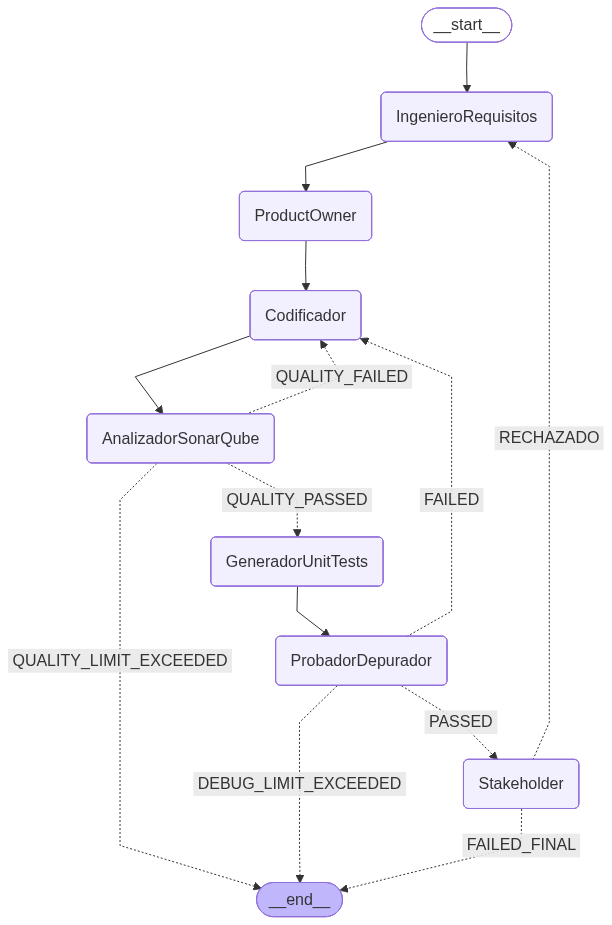
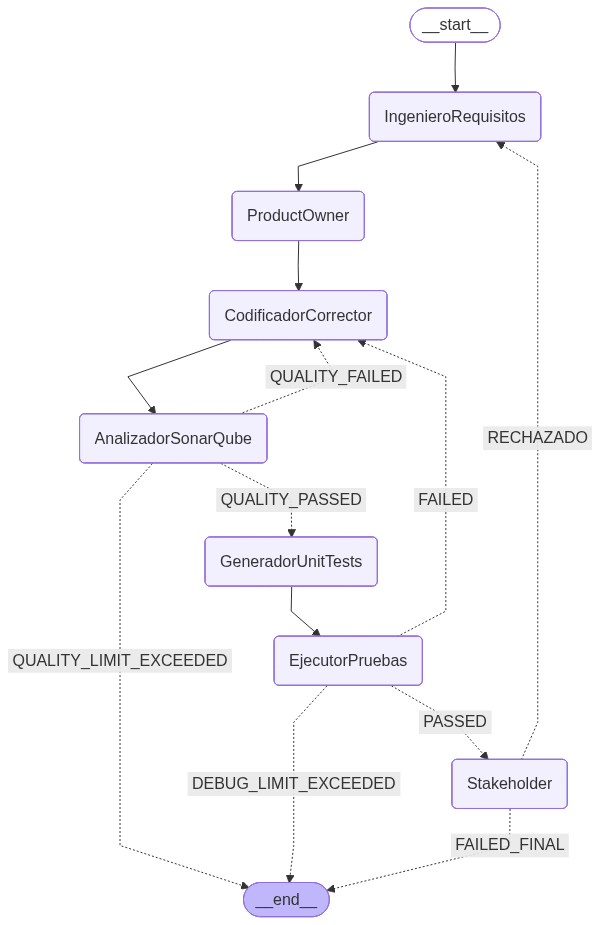
feat: Reestructurar agentes y flujos de trabajo, eliminando codificador y probador, e introduciendo codificador_corrector y ejecutor_pruebas

diff --git a/src/workflow/graph.py b/src/workflow/graph.py
@@ -7,10 +7,10 @@ from langgraph.graph import StateGraph, END, START
 from models.state import AgentState
 from agents.ingeniero_requisitos import ingeniero_de_requisitos_node
 from agents.product_owner import product_owner_node
-from agents.codificador import codificador_node
+from agents.codificador_corrector import codificador_node
 from agents.analizador_sonarqube import analizador_sonarqube_node
 from agents.generador_unit_tests import generador_unit_tests_node
-from agents.probador_depurador import probador_depurador_node
+from agents.ejecutor_pruebas import ejecutor_pruebas_node
 from agents.stakeholder import stakeholder_node
 
 
@@ -26,17 +26,17 @@ def create_workflow() -> StateGraph:
     # 1. Añadir Nodos (Agentes)
     workflow.add_node("IngenieroRequisitos", ingeniero_de_requisitos_node)
     workflow.add_node("ProductOwner", product_owner_node)
-    workflow.add_node("Codificador", codificador_node)
+    workflow.add_node("CodificadorCorrector", codificador_node)
     workflow.add_node("AnalizadorSonarQube", analizador_sonarqube_node)
     workflow.add_node("GeneradorUnitTests", generador_unit_tests_node)
-    workflow.add_node("ProbadorDepurador", probador_depurador_node)
+    workflow.add_node("EjecutorPruebas", ejecutor_pruebas_node)
     workflow.add_node("Stakeholder", stakeholder_node)
 
     # 2. Definir Transiciones Iniciales y Lineales
     workflow.add_edge(START, "IngenieroRequisitos")
     workflow.add_edge("IngenieroRequisitos", "ProductOwner")
-    workflow.add_edge("ProductOwner", "Codificador")
-    workflow.add_edge("Codificador", "AnalizadorSonarQube")
+    workflow.add_edge("ProductOwner", "CodificadorCorrector")
+    workflow.add_edge("CodificadorCorrector", "AnalizadorSonarQube")
 
     # 3. Transiciones Condicionales
 
@@ -50,26 +50,26 @@ def create_workflow() -> StateGraph:
                   else "QUALITY_FAILED")
         ),
         {
-            "QUALITY_FAILED": "Codificador",
+            "QUALITY_FAILED": "CodificadorCorrector",
             "QUALITY_PASSED": "GeneradorUnitTests",
             "QUALITY_LIMIT_EXCEEDED": END
         }
     )
 
-    # B. Transición del Generador de Unit Tests al Probador
-    workflow.add_edge("GeneradorUnitTests", "ProbadorDepurador")
+    # B. Transición del Generador de Unit Tests al Ejecutor de Pruebas
+    workflow.add_edge("GeneradorUnitTests", "EjecutorPruebas")
 
     # C. Bucle de Depuración (Interno: Corrección de Código)
     # Incluye control de límite de intentos
     workflow.add_conditional_edges(
-        "ProbadorDepurador",
+        "EjecutorPruebas",
         lambda x: (
             "PASSED" if x['pruebas_superadas']
             else ("DEBUG_LIMIT_EXCEEDED" if x['debug_attempt_count'] >= x['max_debug_attempts']
                   else "FAILED")
         ),
         {
-            "FAILED": "Codificador",
+            "FAILED": "CodificadorCorrector",
             "PASSED": "Stakeholder",
             "DEBUG_LIMIT_EXCEEDED": END
         }

diff --git a/src/agents/ejecutor_pruebas.py b/src/agents/ejecutor_pruebas.py
@@ -1,6 +1,6 @@
-"""
-Agente 4: Probador/Depurador
-Responsable de generar y ejecutar casos de prueba sobre el código generado.
+"""Agente 4: Ejecutor de Pruebas
+Responsable de generar casos de prueba funcionales y ejecutarlos sobre el código generado.
+Valida que el código funcione correctamente según los requisitos.
 """
 
 import re
@@ -13,21 +13,21 @@ from llm.gemini_client import call_gemini
 from tools.file_utils import guardar_fichero_texto
 
 
-def probador_depurador_node(state: AgentState) -> AgentState:
+def ejecutor_pruebas_node(state: AgentState) -> AgentState:
     """
-    Nodo del Probador/Depurador.
-    Genera casos de prueba y ejecuta el código para validar su corrección.
+    Nodo del Ejecutor de Pruebas.
+    Genera casos de prueba funcionales y ejecuta el código para validar su corrección.
     """
     # PASO 1: Generar casos de test
-    print("--- 4.1 🧪 Probador/Depurador --- Generar casos de test")
+    print("--- 4.1 🧪 Ejecutor de Pruebas --- Generar casos de test")
 
     contexto_llm1 = f"Código generado: {state['codigo_generado']}"
     respuesta_llm1 = call_gemini(Prompts.PROBADOR_GENERADOR_TESTS, contexto_llm1)
     test_cases = re.sub(r'```python|```|\n', '', respuesta_llm1).strip()
     print(f"Test cases: {test_cases}")
 
-    # PASO 2: Probar casos de test
-    print("--- 4.2 🧪 Probador/Depurador --- Probar casos de test")
+    # PASO 2: Ejecutar casos de test
+    print("--- 4.2 🧪 Ejecutor de Pruebas --- Ejecutar casos de test")
 
     contexto_llm2 = (
         f"Código-generado: {state['codigo_generado']}\n"

diff --git a/src/models/state.py b/src/models/state.py
@@ -14,7 +14,7 @@ class AgentState(TypedDict):
     # Contexto y gestión de bucles
     max_attempts: int  # Máximo de reintentos antes de fallo final
     attempt_count: int  # Contador de intentos en el ciclo externo (stakeholder)
-    debug_attempt_count: int  # Contador de intentos en el bucle de depuración (probador-codificador)
+    debug_attempt_count: int  # Contador de intentos en el bucle de depuración (ejecutor_pruebas-codificador_corrector)
     max_debug_attempts: int  # Máximo de intentos en el bucle de depuración
     feedback_stakeholder: str
 

diff --git a/src/agents/codificador_corrector.py b/src/agents/codificador_corrector.py
@@ -1,6 +1,6 @@
-"""
-Agente 3: Codificador
-Responsable de generar y corregir código Python según requisitos formales.
+"""Agente 3: Codificador/Corrector
+Responsable de generar código según requisitos formales y corregir errores.
+Corrige tanto errores de ejecución (traceback) como problemas de calidad (SonarQube).
 """
 
 import re
